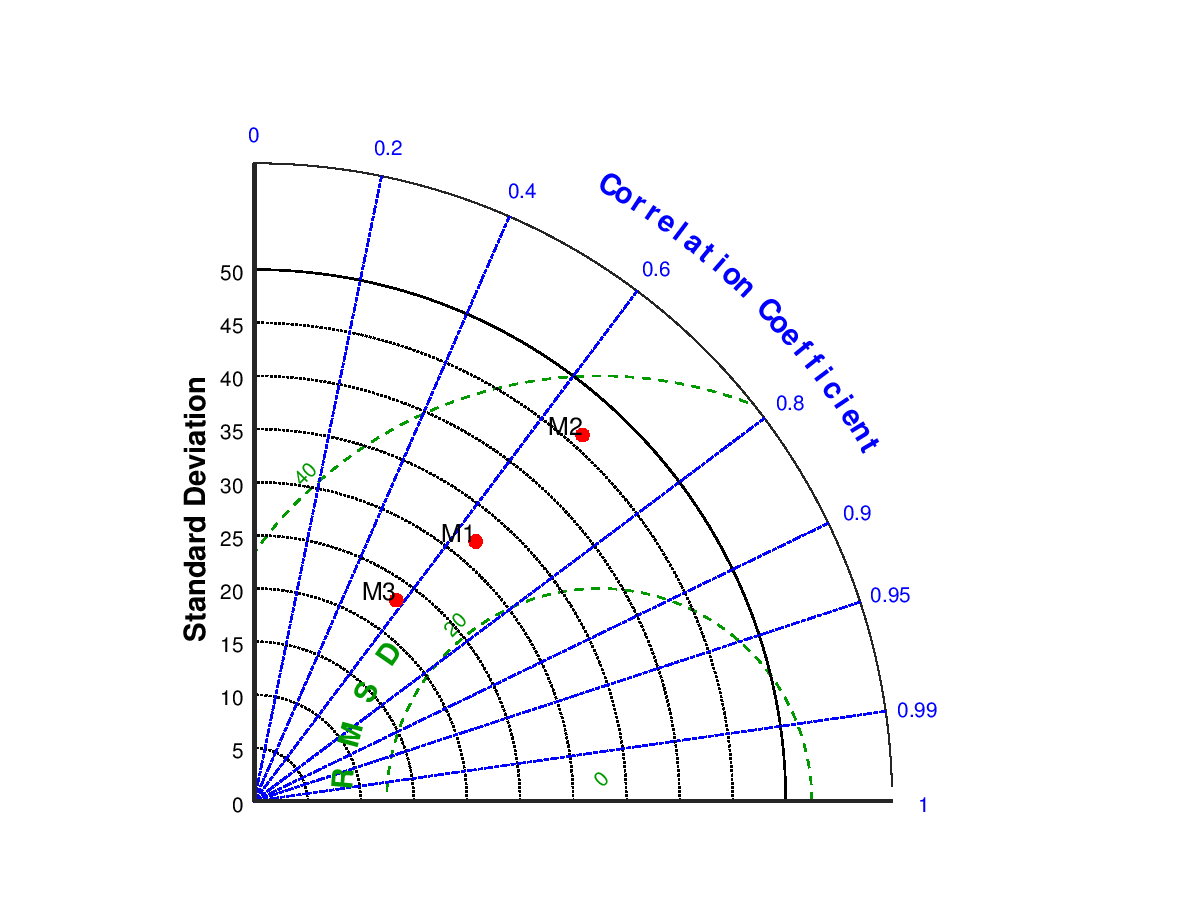
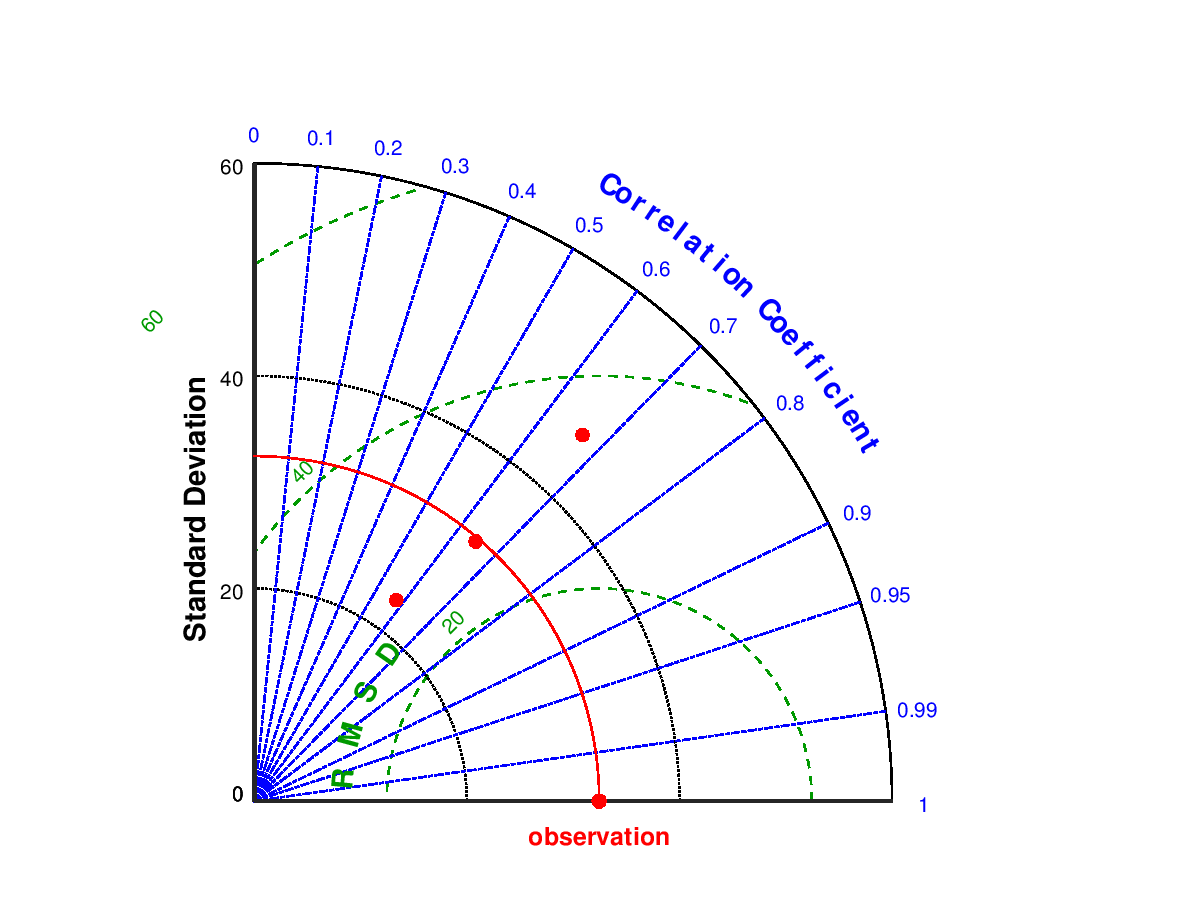
Added another Taylor diagram example that shows observational STD as second example and renumbered higher numbered examples.

diff --git a/Examples/taylor8.m b/Examples/taylor8.m
@@ -1,12 +1,15 @@
-% How to create a Taylor diagram with with modified axes and data point colors
+% How to create a taylor diagram with overlaid markers
 %
-% A fourth example of how to create a Taylor diagram given one set of
-% reference observations and multiple model predictions for the quantity.
+% An eighth example of how to create a Taylor diagram given one set
+% of reference observations and multiple model predictions for the
+% quantity.
 %
-% This example is a variation on the third example (taylor3) where now the
-% maximum scale for the standard deviation axis is increased, color
-% properties are modified for the data points, and color & style properties
-% are modified for the axes.
+% This example is a variation on the seventh example (taylor7) where now a
+% fourth data point having a negative correlation is overlaid on an
+% existing Taylor diagram that already has 3 data points with positive
+% correlations. It is chosen to have data points with positive correlations
+% appear in red while data points with negative correlations are displayed
+% in blue.  
 %
 % All functions in the Skill Metrics Toolbox are designed to only work with
 % one-dimensional arrays, e.g. time series of observations at a selected
@@ -47,7 +50,7 @@ load('taylor_data.mat');
 
 % Calculate statistics for Taylor diagram
 % The first array element corresponds to the reference series for the
-% while the second is that for the predicted series.
+% while the second is that for the predicted series. 
 taylor_stats1 = taylor_statistics(pred1,ref,'data');
 taylor_stats2 = taylor_statistics(pred2,ref,'data');
 taylor_stats3 = taylor_statistics(pred3,ref,'data');
@@ -65,24 +68,39 @@ ccoef = [taylor_stats1.ccoef(1); taylor_stats1.ccoef(2); ...
 % though it is not used.
 label = {'Non-Dimensional Observation', 'M1', 'M2', 'M3'};
 
-% Produce the Taylor diagram
+% Produce the Taylor diagram.
 %
-% Label the points and change the axis options for SDEV, CRMSD, and CCOEF.
-% Increase the upper limit for the SDEV axis and rotate the CRMSD contour 
-% labels (counter-clockwise from x-axis). Exchange color and line style
-% choices for SDEV, CRMSD, and CCOEFF variables to show effect. Increase
-% the line width of all lines.
+% Display the data points for correlations that vary from -1 to 1 (2
+% panels). Label the points and change the axis options for SDEV, CRMSD,
+% and CCOEF. Increase the upper limit for the SDEV axis and rotate the
+% CRMSD contour labels (counter-clockwise from x-axis). Exchange color and
+% line style choices for SDEV, CRMSD, and CCOEFF variables to show effect.
+% Increase the line width of all lines.
 %
 % For an exhaustive list of options to customize your diagram, please 
 % call the function without arguments:
 %	>> taylor_diagram
 [hp, ht, axl] = taylor_diagram(sdev,crmsd,ccoef, ...
+    'numberPanels', 2, ...
     'markerLabel',label, 'markerLabelColor', 'r', ...
-    'tickRMS',0.0:10.0:50.0,'tickRMSangle',110.0, ...
-    'colRMS','m', 'styleRMS', ':', 'widthRMS', 2.0, ...
+    'tickRMS',0.0:10.0:80.0,'tickRMSangle',150.0, ...
+    'colRMS','m', 'styleRMS', ':', 'widthRMS', 2.0, 'titleRMS', 'off', ...
     'tickSTD',0.0:20.0:60.0, 'limSTD',60.0, ...
     'colSTD','b', 'styleSTD', '-.', 'widthSTD', 1.0, ...
     'colCOR','k', 'styleCOR', '--', 'widthCOR', 1.0);
 
+% Calculate a negative correlation for one of the data values.
+pred3.data = -pred3.data;
+taylor_stats3 = taylor_statistics(pred3,ref,'data');
+sdev = [taylor_stats3.sdev(1); taylor_stats3.sdev(2)];
+crmsd = [taylor_stats3.crmsd(1); taylor_stats3.crmsd(2)];
+ccoef = [taylor_stats1.ccoef(1); taylor_stats3.ccoef(2)];
+
+% Overlay new data point (blue) on existing diagram
+label = {'Non-Dimensional Observation', 'M4'};
+taylor_diagram(sdev,crmsd,ccoef, ...
+    'overlay','on', ...
+    'markerLabel',label, 'markerLabelColor', 'b', 'markerColor','b');
+
 % Write plot to file
-writepng(gcf,'taylor3.png');
+writepng(gcf,'taylor7.png');

diff --git a/Examples/taylor2.m b/Examples/taylor2.m
@@ -1,17 +1,20 @@
-% How to create a Taylor diagram with labelled data points and modified axes
+% How to create a simple Taylor diagram that also shows the
+% observational standard deviation.
 %
-% A second example of how to create a Taylor diagram given one set of
+% A second example of how to create a simple Taylor diagram, given one set of
 % reference observations and multiple model predictions for the quantity.
 %
 % This example is a variation on the first example (taylor1) where now the
-% data points are labelled and axes properties are specified.
+% standard deviation of the observations is also shown.
 %
-% All functions in the Skill Metrics Toolbox are designed to only work with
-% one-dimensional arrays, e.g. time series of observations at a selected
-% location. The one-dimensional data are read in as data structures via a
-% mat file. The latter are stored in data structures in the format:
-% ref.data, pred1.data, pred2.dat, and pred3.dat. The plot is written to a
-% file in Portable Network Graphics (PNG) format.
+% This example shows how to calculate the required statistics and produce
+% the Taylor diagram. All functions in the Skill Metrics Toolbox are
+% designed to only work with one-dimensional arrays, e.g. time series of
+% observations at a selected location. The one-dimensional data are read in
+% as data structures via a mat file. The latter are stored in data
+% structures in the format: ref.data, pred1.data, pred2.dat, and
+% pred3.dat. The plot is written to a file in Portable Network Graphics
+% (PNG) format.
 %
 % The reference data used in this example are cell concentrations of a
 % phytoplankton collected from cruise surveys at selected locations and 
@@ -58,23 +61,16 @@ crmsd = [taylor_stats1.crmsd(1); taylor_stats1.crmsd(2); ...
 ccoef = [taylor_stats1.ccoef(1); taylor_stats1.ccoef(2); ...
     taylor_stats2.ccoef(2); taylor_stats3.ccoef(2)];
 
-% Specify labels for points in a cell array (M1 for model prediction 1,
-% etc.). Note that a label needs to be specified for the reference even
-% though it is not used.
-label = {'Non-Dimensional Observation', 'M1', 'M2', 'M3'};
-
-% Produce the Taylor diagram
+% Produce the Taylor diagram.
 %
-% Label the points and change the axis options for SDEV, CRMSD, and CCOEF.
-%
-% For an exhaustive list of options to customize your diagram, please 
-% call the function without arguments:
-%	>> taylor_diagram
-[hp, ht, axl] = taylor_diagram(sdev,crmsd,ccoef, ...
-    'markerLabel',label, ...
-    'tickRMS',0.0:20.0:40.0, ...
-    'tickSTD',0.0:5.0:50.0, ...
-    'tickCOR',[0.0:0.2:0.8 0.9 0.95 0.99 1.0]);
+% Note that the first index corresponds to the reference series for the
+% diagram. For example sdev(1) is the standard deviation of the reference
+% series and sdev(2:4) are the standard deviations of the other series.
+% The value of sdev(1) is used to define the origin of the RMSD contours.
+% The other values are used to plot the points (total of 3) that appear in
+% the diagram.
+[hp, ht, axl] = taylor_diagram(sdev,crmsd,ccoef,'styleOBS','-', ...
+    'colOBS','r','markerobs','o','titleOBS','observation');
 
 % Write plot to file
 writepng(gcf,'taylor2.png');

diff --git a/Examples/taylor6.m b/Examples/taylor6.m
@@ -1,12 +1,12 @@
-% How to create a Taylor diagram with correlations that vary from -1 to 1 (2 panels)
+% How to create a Taylor diagram with a color bar
 %
 % A sixth example of how to create a Taylor diagram given one set of
 % reference observations and multiple model predictions for the quantity.
 %
-% This example is a variation on the third example (taylor3) where now the
-% Taylor diagram is shown for correlations that vary from -1 to 1 (2
-% panels). Note that 2 panels will be used by default if any of the
-% correlations are negative.
+% This example is a variation on the fourth example (taylor4) where now the
+% markers are displayed in a color spectrum corresponding to their RMSD. A
+% color bar is automatically displayed showing the correspondence with the
+% RMSD values.
 %
 % All functions in the Skill Metrics Toolbox are designed to only work with
 % one-dimensional arrays, e.g. time series of observations at a selected
@@ -47,7 +47,7 @@ load('taylor_data.mat');
 
 % Calculate statistics for Taylor diagram
 % The first array element corresponds to the reference series for the
-% while the second is that for the predicted series. 
+% while the second is that for the predicted series.
 taylor_stats1 = taylor_statistics(pred1,ref,'data');
 taylor_stats2 = taylor_statistics(pred2,ref,'data');
 taylor_stats3 = taylor_statistics(pred3,ref,'data');
@@ -67,24 +67,23 @@ label = {'Non-Dimensional Observation', 'M1', 'M2', 'M3'};
 
 % Produce the Taylor diagram.
 %
-% Display the data points for correlations that vary from -1 to 1 (2
-% panels). Label the points and change the axis options for SDEV, CRMSD,
-% and CCOEF. Increase the upper limit for the SDEV axis and rotate the
-% CRMSD contour labels (counter-clockwise from x-axis). Exchange color and
-% line style choices for SDEV, CRMSD, and CCOEFF variables to show effect.
-% Increase the line width of all lines.
+% Label the points and change the axis options for SDEV, CRMSD, and CCOEF.
+% Increase the upper limit for the SDEV axis and rotate the CRMSD contour 
+% labels (counter-clockwise from x-axis). Exchange color and line style
+% choices for SDEV, CRMSD, and CCOEFF variables to show effect. Increase
+% the line width of all lines.
 %
 % For an exhaustive list of options to customize your diagram, please 
 % call the function without arguments:
 %	>> taylor_diagram
 [hp, ht, axl] = taylor_diagram(sdev,crmsd,ccoef, ...
-    'numberPanels', 2, ...
-    'markerLabel',label, 'markerLabelColor', 'r', ...
-    'tickRMS',0.0:10.0:80.0,'tickRMSangle',150.0, ...
-    'colRMS','m', 'styleRMS', ':', 'widthRMS', 2.0, 'titleRMS', 'off', ...
+    'markerDisplayed','colorBar', 'titleColorbar', 'RMSD', ...
+    'nonRMSDz', 'on', ...
+    'tickRMS',0.0:10.0:50.0,'tickRMSangle',110.0, ...
+    'colRMS','m', 'styleRMS', ':', 'widthRMS', 2.0, ...
     'tickSTD',0.0:20.0:60.0, 'limSTD',60.0, ...
     'colSTD','b', 'styleSTD', '-.', 'widthSTD', 1.0, ...
     'colCOR','k', 'styleCOR', '--', 'widthCOR', 1.0);
 
 % Write plot to file
-writepng(gcf,'taylor6.png');
+writepng(gcf,'taylor5.png');

diff --git a/Examples/taylor5.m b/Examples/taylor5.m
@@ -1,12 +1,11 @@
-% How to create a Taylor diagram with a color bar
+% How to create a Taylor diagram with a legend plus suppressed axes titles
 %
 % A fifth example of how to create a Taylor diagram given one set of
 % reference observations and multiple model predictions for the quantity.
 %
-% This example is a variation on the third example (taylor3) where now the
-% markers are displayed in a color spectrum corresponding to their RMSD. A
-% color bar is automatically displayed showing the correspondence with the
-% RMSD values.
+% This example is a variation on the fourth example (taylor4) where now a
+% legend is added, and axes titles are suppressed. Note that symbols are
+% used for the points when requesting a legend.
 %
 % All functions in the Skill Metrics Toolbox are designed to only work with
 % one-dimensional arrays, e.g. time series of observations at a selected
@@ -71,19 +70,18 @@ label = {'Non-Dimensional Observation', 'M1', 'M2', 'M3'};
 % Increase the upper limit for the SDEV axis and rotate the CRMSD contour 
 % labels (counter-clockwise from x-axis). Exchange color and line style
 % choices for SDEV, CRMSD, and CCOEFF variables to show effect. Increase
-% the line width of all lines.
+% the line width of all lines. Suppress axes titles and add a legend.
 %
 % For an exhaustive list of options to customize your diagram, please 
 % call the function without arguments:
 %	>> taylor_diagram
 [hp, ht, axl] = taylor_diagram(sdev,crmsd,ccoef, ...
-    'markerDisplayed','colorBar', 'titleColorbar', 'RMSD', ...
-    'nonRMSDz', 'on', ...
+    'markerLabel',label, 'markerColor', 'r', 'markerLegend', 'on', ...
     'tickRMS',0.0:10.0:50.0,'tickRMSangle',110.0, ...
-    'colRMS','m', 'styleRMS', ':', 'widthRMS', 2.0, ...
+    'colRMS','m', 'styleRMS', ':', 'widthRMS', 2.0, 'titleRMS', 'off', ...
     'tickSTD',0.0:20.0:60.0, 'limSTD',60.0, ...
-    'colSTD','b', 'styleSTD', '-.', 'widthSTD', 1.0, ...
-    'colCOR','k', 'styleCOR', '--', 'widthCOR', 1.0);
+    'colSTD','b', 'styleSTD', '-.', 'widthSTD', 1.0, 'titleSTD', 'off', ...
+    'colCOR','k', 'styleCOR', '--', 'widthCOR', 1.0, 'titleCOR', 'off');
 
 % Write plot to file
-writepng(gcf,'taylor5.png');
+writepng(gcf,'taylor4.png');

diff --git a/Examples/taylor7.m b/Examples/taylor7.m
@@ -1,15 +1,12 @@
-% How to create a taylor diagram with overlaid markers
+% How to create a Taylor diagram with correlations that vary from -1 to 1 (2 panels)
 %
-% A seventh example of how to create a Taylor diagram given one set
-% of reference observations and multiple model predictions for the
-% quantity.
+% A seventh example of how to create a Taylor diagram given one set of
+% reference observations and multiple model predictions for the quantity.
 %
-% This example is a variation on the sixth example (taylor6) where now a
-% fourth data point having a negative correlation is overlaid on an
-% existing Taylor diagram that already has 3 data points with positive
-% correlations. It is chosen to have data points with positive correlations
-% appear in red while data points with negative correlations are displayed
-% in blue.  
+% This example is a variation on the fourth example (taylor4) where now the
+% Taylor diagram is shown for correlations that vary from -1 to 1 (2
+% panels). Note that 2 panels will be used by default if any of the
+% correlations are negative.
 %
 % All functions in the Skill Metrics Toolbox are designed to only work with
 % one-dimensional arrays, e.g. time series of observations at a selected
@@ -89,18 +86,5 @@ label = {'Non-Dimensional Observation', 'M1', 'M2', 'M3'};
     'colSTD','b', 'styleSTD', '-.', 'widthSTD', 1.0, ...
     'colCOR','k', 'styleCOR', '--', 'widthCOR', 1.0);
 
-% Calculate a negative correlation for one of the data values.
-pred3.data = -pred3.data;
-taylor_stats3 = taylor_statistics(pred3,ref,'data');
-sdev = [taylor_stats3.sdev(1); taylor_stats3.sdev(2)];
-crmsd = [taylor_stats3.crmsd(1); taylor_stats3.crmsd(2)];
-ccoef = [taylor_stats1.ccoef(1); taylor_stats3.ccoef(2)];
-
-% Overlay new data point (blue) on existing diagram
-label = {'Non-Dimensional Observation', 'M4'};
-taylor_diagram(sdev,crmsd,ccoef, ...
-    'overlay','on', ...
-    'markerLabel',label, 'markerLabelColor', 'b', 'markerColor','b');
-
 % Write plot to file
-writepng(gcf,'taylor7.png');
+writepng(gcf,'taylor6.png');

diff --git a/Examples/taylor3.m b/Examples/taylor3.m
@@ -1,12 +1,10 @@
-% How to create a Taylor diagram with with modified axes and data point colors
+% How to create a Taylor diagram with labelled data points and modified axes
 %
 % A third example of how to create a Taylor diagram given one set of
 % reference observations and multiple model predictions for the quantity.
 %
-% This example is a variation on the second example (taylor2) where now the
-% maximum scale for the standard deviation axis is increased, color
-% properties are modified for the data points, and color & style properties
-% are modified for the axes.
+% This example is a variation on the first example (taylor1) where now the
+% data points are labelled and axes properties are specified.
 %
 % All functions in the Skill Metrics Toolbox are designed to only work with
 % one-dimensional arrays, e.g. time series of observations at a selected
@@ -68,21 +66,15 @@ label = {'Non-Dimensional Observation', 'M1', 'M2', 'M3'};
 % Produce the Taylor diagram
 %
 % Label the points and change the axis options for SDEV, CRMSD, and CCOEF.
-% Increase the upper limit for the SDEV axis and rotate the CRMSD contour 
-% labels (counter-clockwise from x-axis). Exchange color and line style
-% choices for SDEV, CRMSD, and CCOEFF variables to show effect. Increase
-% the line width of all lines.
 %
 % For an exhaustive list of options to customize your diagram, please 
 % call the function without arguments:
 %	>> taylor_diagram
 [hp, ht, axl] = taylor_diagram(sdev,crmsd,ccoef, ...
-    'markerLabel',label, 'markerLabelColor', 'r', ...
-    'tickRMS',0.0:10.0:50.0,'tickRMSangle',110.0, ...
-    'colRMS','m', 'styleRMS', ':', 'widthRMS', 2.0, ...
-    'tickSTD',0.0:20.0:60.0, 'limSTD',60.0, ...
-    'colSTD','b', 'styleSTD', '-.', 'widthSTD', 1.0, ...
-    'colCOR','k', 'styleCOR', '--', 'widthCOR', 1.0);
+    'markerLabel',label, ...
+    'tickRMS',0.0:20.0:40.0, ...
+    'tickSTD',0.0:5.0:50.0, ...
+    'tickCOR',[0.0:0.2:0.8 0.9 0.95 0.99 1.0]);
 
 % Write plot to file
-writepng(gcf,'taylor3.png');
+writepng(gcf,'taylor2.png');

diff --git a/plot_taylor_obs.m b/plot_taylor_obs.m
@@ -1,0 +1,52 @@
+function varargout = plot_taylor_obs(ax,obsSTD,axes,option)
+%PLOT_TAYLOR_OBS Plots observation STD on Taylor diagram.
+%
+%   PLOT_TAYLOR_OBS(AX,obsSTD,AXES,OPTION)
+%   Optionally plots a marker on the x-axis in indicating observation STD, a
+%   a label for this point, and a contour circle indicating the STD value.
+%
+%   INPUTS:
+%   ax     : axes handle for Taylor diagram
+%   obsSTD : observation standard deviation
+%   axes   : axes values used in Taylor diagram
+%   option : data structure containing option values. (Refer to 
+%     GET_TARGET_DIAGRAM_OPTIONS function for more information.)
+%   option.colOBS    : color for observation labels (Default : magenta)
+%   option.markerObs : marker to use for x-axis indicating observed STD
+%   option.styleOBS  : line style for observation grid line
+%   option.titleOBS  : label for observation point label (Default: '')
+%   option.widthOBS  : linewidth for observation grid line (Default: .8)
+%
+%   OUTPUTS:
+% 	None
+
+if isfield(option,'markerObs') && ~strcmp(option.markerObs,'none')
+  hold on
+
+  % Display marker on x-axis indicating observed STD
+  plot(obsSTD,0.0,option.markerObs,'color',option.colOBS, ... 
+    'MarkerSize',6,'MarkerFaceColor',option.colOBS, ...
+    'Linewidth',1.0);
+end
+
+if ~strcmp(option.titleOBS,'')
+  % Put label below the marker
+  labelweight = 'bold';
+  labelsize = get(ax(1).handle,'fontsize') - 2;
+  x = obsSTD; y = -0.05*axes.rmax;
+  text(x,y,option.titleOBS, 'color',option.colOBS, ...
+        'HorizontalAlignment', 'center', ...
+        'fontweight',labelweight, 'fontsize',labelsize);
+end
+
+if ~strcmp(option.styleOBS,'')
+  % Draw circle for observation STD
+  hold on
+  th = 0:pi/150:2*pi;
+  xunit = obsSTD*cos(th);
+  yunit = obsSTD*sin(th);
+  hhh = line(xunit,yunit,'linestyle',option.styleOBS,'color', ...
+      option.colOBS,'linewidth',option.widthOBS);
+end
+
+end %function plot_taylor_obs

diff --git a/Examples/taylor1.m b/Examples/taylor1.m
@@ -67,8 +67,6 @@ ccoef = [taylor_stats1.ccoef(1); taylor_stats1.ccoef(2); ...
 % The other values are used to plot the points (total of 3) that appear in
 % the diagram.
 [hp, ht, axl] = taylor_diagram(sdev,crmsd,ccoef);
-%[hp, ht, axl] = taylor_diagram(sdev,crmsd,ccoef,'titleRMS','off',...
-%  'titleCOR','off');
 
 % Write plot to file
 writepng(gcf,'taylor1.png');
